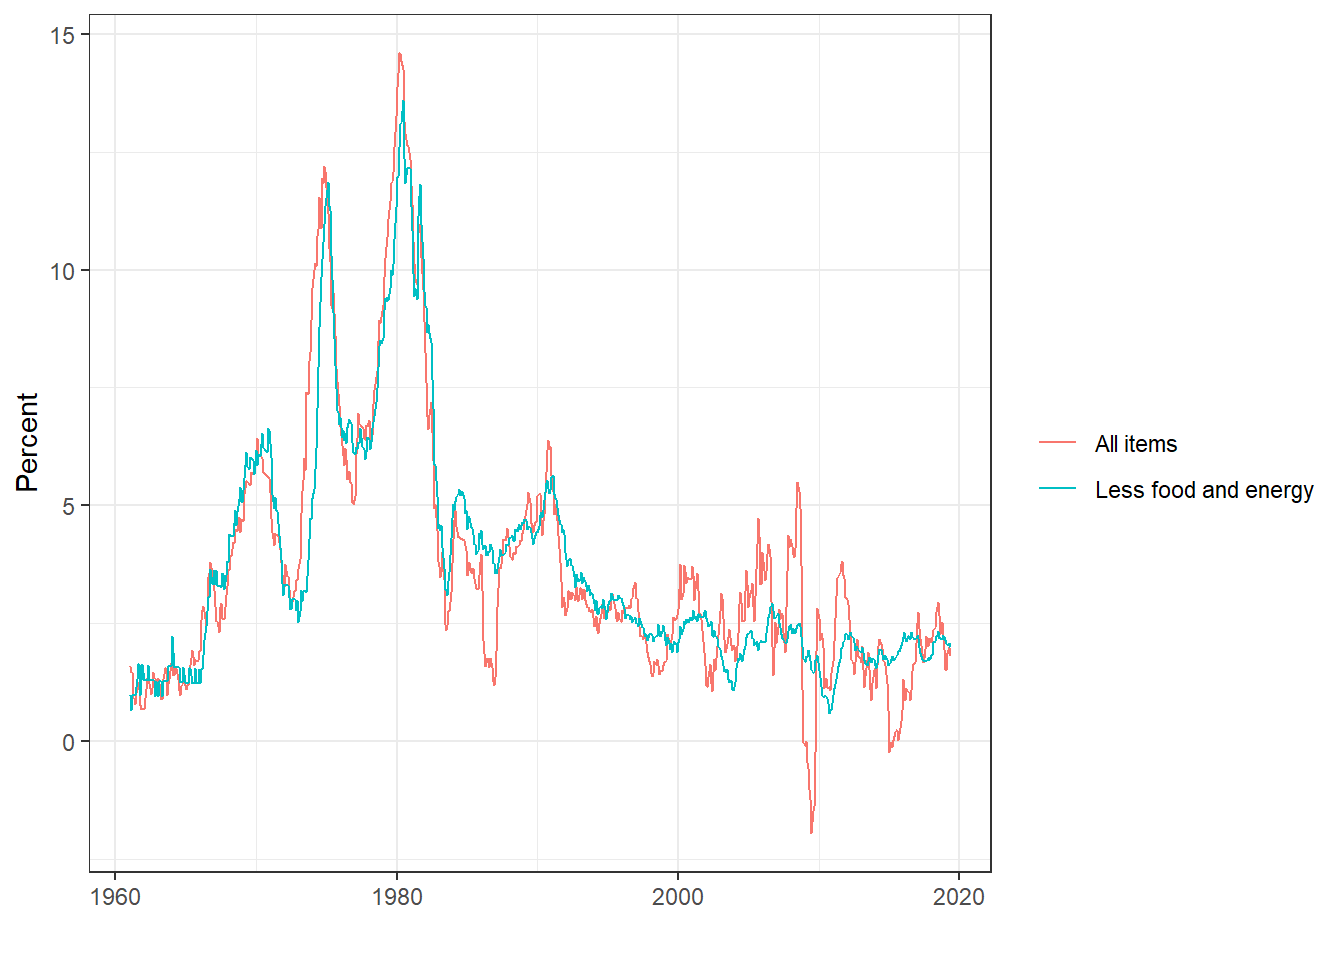
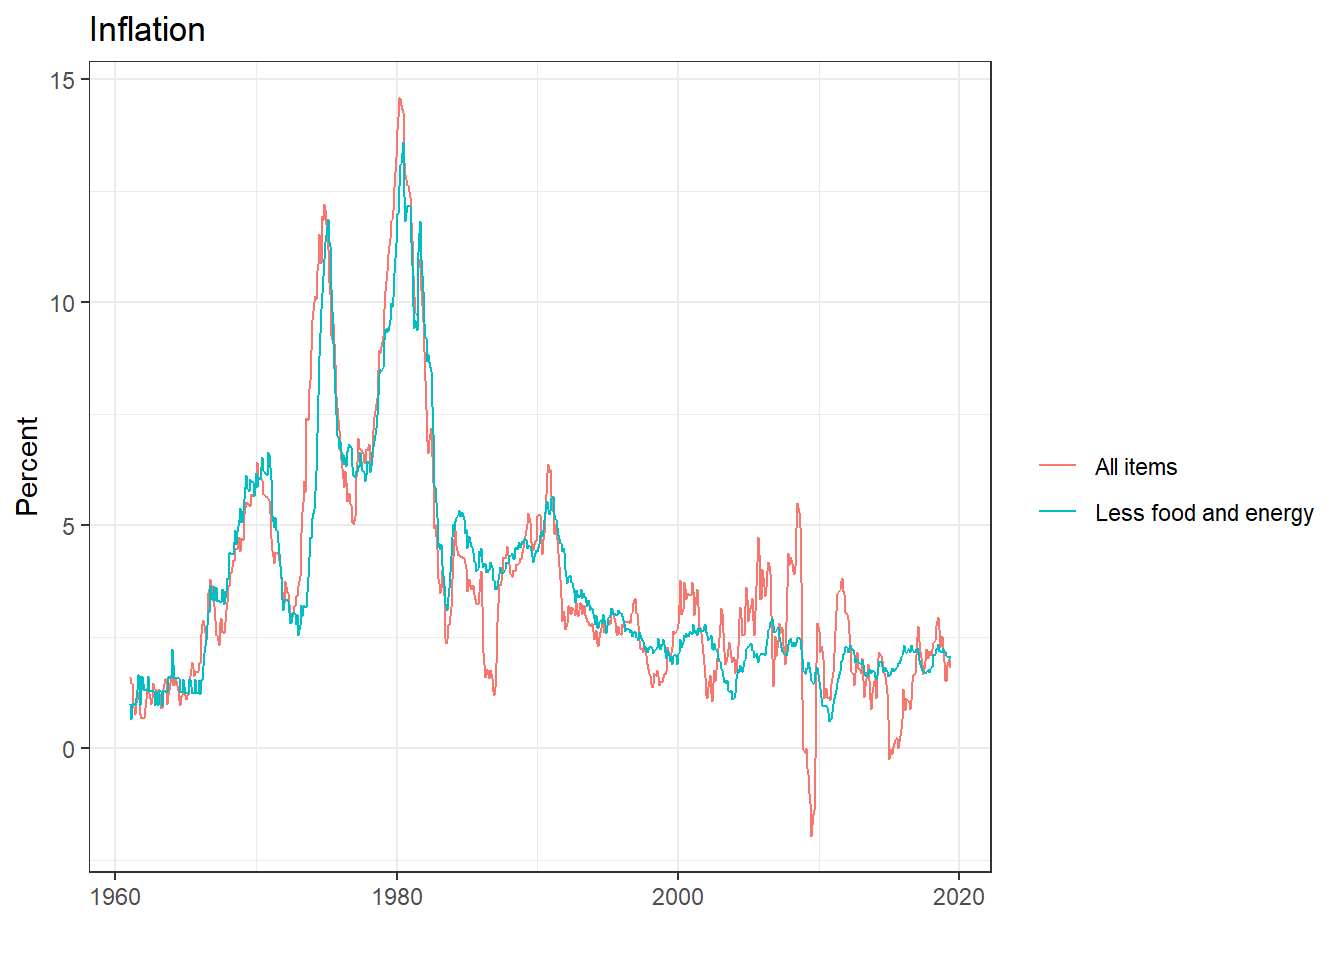
update website

diff --git a/2019/06/15/many-models-in-r/index.html b/2019/06/15/many-models-in-r/index.html
@@ -431,7 +431,9 @@ dat &lt;- dat %&gt;%
 
 <pre><code class="language-r">ggplot(data = dat) +
   geom_line(mapping = aes(x = date, y = infl, color = series_name)) +
-  labs(x = &quot;&quot;, y = &quot;Percent&quot;, color = &quot;&quot;) + theme_bw()
+  labs(x = &quot;&quot;, y = &quot;Percent&quot;, color = &quot;&quot;) + 
+  ggtitle(&quot;Inflation&quot;) +
+  theme_bw()
 </code></pre>
 
 <p><img src="/post/first-post_files/figure-html/unnamed-chunk-4-1.png" width="672" /></p>
